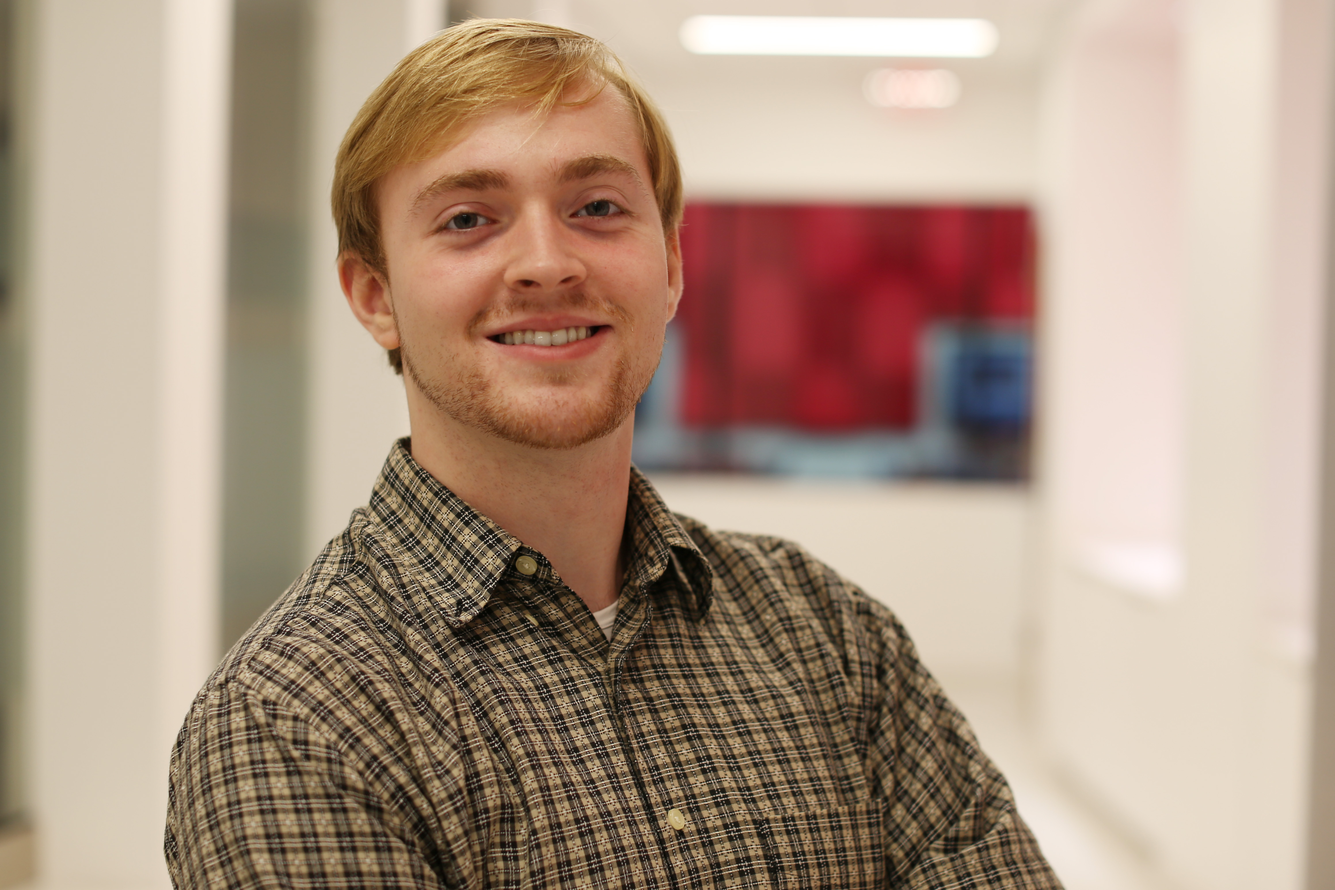
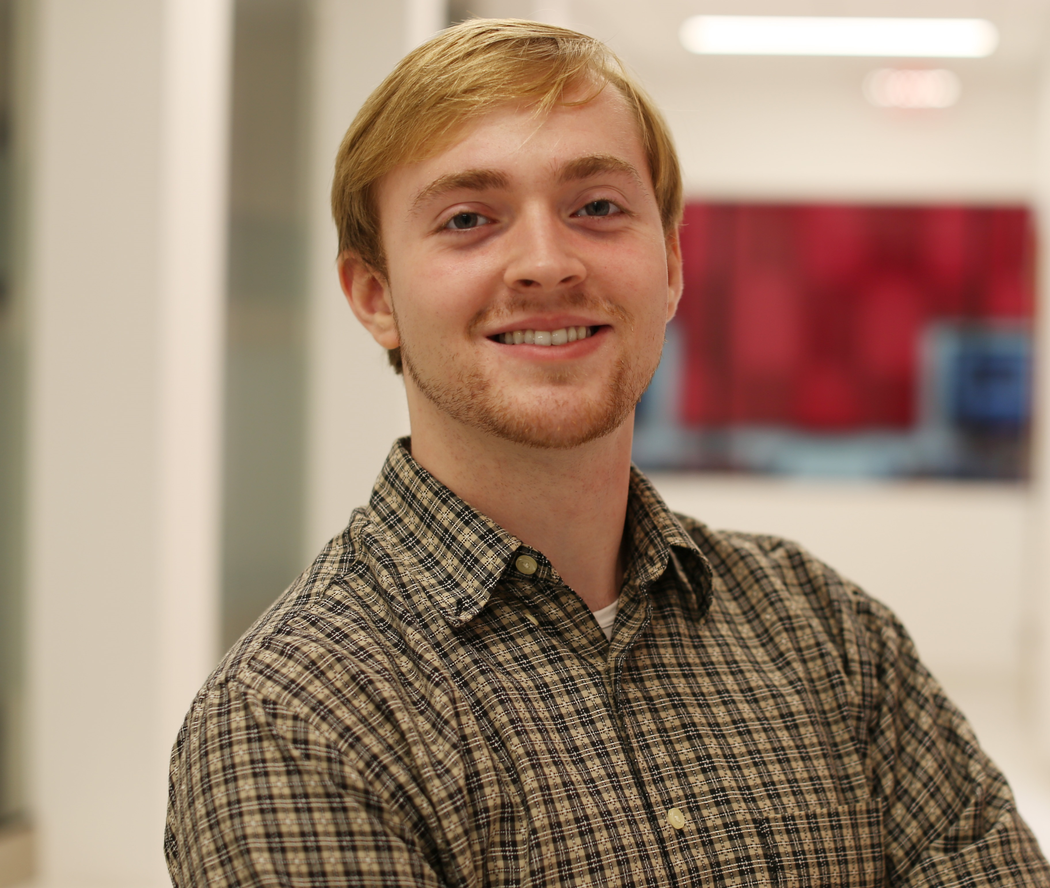
Fixed #72
Fixed prefile Image rotation bug.
Fixed the home page footer.

diff --git a/frontend/templates/base.html b/frontend/templates/base.html
@@ -34,53 +34,84 @@
         {% endblock %}
     </main>
 
-    <footer class="page-footer font-small blue pt-4">
+    <footer class="mt-5 page-footer font-small indigo bg-light ">
 
       <!-- Footer Links -->
-      <div class="container-fluid text-center text-md-left">
-        <!-- Grid row -->
-        <div class="row">
-          <!-- Grid column -->
-          <div class="col-md-6 mt-md-0 mt-3">
-            <!-- Content -->
-            <h5 class="text-uppercase">University at Buffalo Esports</h5>
-            <div class="row">
-              <img src="images/Email.png" width="30" height="30">
-              <p>ubuffalo.esports@gmail.com</p>
-            </div>
-          </div>
-          <!-- Grid column -->
-          <hr class="clearfix w-100 d-md-none pb-3">
-          <!-- Grid column -->
-          <div class="col-md-3 mb-md-0 mb-3">
-            <!-- Links -->
-            <ul class="list-unstyled">
-              <li>
-                <a href="blog" style="color:black">Blog</a>
-              </li>
-              <li>
-                <a href="clubs" style="color:black">Clubs</a>
-              </li>
-              <li>
-                <a href="events" style="color:black">Events</a>
-              </li>
-              <li>
-                <a href="teams" style="color:black">Teams</a>
-              </li>
-            </ul>
+      <div class="container">
     
+        <!-- Grid row-->
+        <div class="row text-center d-flex justify-content-center pt-5 mb-3">
+    
+          <!-- Grid column -->
+          <div class="col-md-2 ">
+            <h6 class="text-uppercase font-weight-bold">
+              <a href="#!">Blog</a>
+            </h6>
           </div>
           <!-- Grid column -->
+    
+          <!-- Grid column -->
+          <div class="col-md-2 ">
+            <h6 class="text-uppercase font-weight-bold">
+              <a href="#!">Clubs</a>
+            </h6>
+          </div>
+          <!-- Grid column -->
+    
+          <!-- Grid column -->
+          <div class="col-md-2 ">
+            <h6 class="text-uppercase font-weight-bold">
+              <a href="#!">Events</a>
+            </h6>
+          </div>
+          <!-- Grid column -->
+    
+          <!-- Grid column -->
+          <div class="col-md-2 ">
+            <h6 class="text-uppercase font-weight-bold">
+              <a href="#!">Teams</a>
+            </h6>
+          </div>
+          <!-- Grid column -->
+
         </div>
-        <!-- Grid row -->
+        <!-- Grid row-->
+        <hr class="rgba-white-light" style="margin: 0 15%;">
+    
+        <!-- Grid row-->
+        <div class="row d-flex text-center justify-content-center mb-md-0 mb-1">
+    
+          <!-- Grid column -->
+          <div class="col-md-8 col-12 mt-5">
+            <h5 class="text-uppercase">University at Buffalo Esports</h5>
+            <a href="mailto:ubuffalo.esports@gmail.com">ubuffalo.esports@gmail.com</a>
+          </div>
+          <!-- Grid column -->
+    
+        </div>
+        <!-- Grid row-->
+        <hr class="clearfix d-md-none rgba-white-light" style="margin: 10% 15% 5%;">
+    
+        <!-- Grid row-->
+        <div class="row pb-3">
+    
+          <!-- Grid column -->
+          <div class="col-md-12">
+          </div>
+          <!-- Grid column -->
+    
+        </div>
+        <!-- Grid row-->
+    
       </div>
       <!-- Footer Links -->
+    
       <!-- Copyright -->
       <div class="footer-copyright text-center py-3">© 2020 Copyright:
-        <a href="#" style="color:black"> University at Buffalo Esports</a>
+        <a > University at Buffalo Esports</a>
       </div>
       <!-- Copyright -->
+    
     </footer>
-    <!-- Footer -->
 </body>
 </html>

diff --git a/frontend/templates/community-director.html b/frontend/templates/community-director.html
@@ -5,7 +5,7 @@
   <div>
       <section class="jumbotron text-center">
         <div class="container">
-          <img class="bd-placeholder-img rounded-circle" width="140" height="140" src="images/communityDirector2.jpg" style="transform:rotate(270deg)">
+          <img class="bd-placeholder-img rounded-circle" width="140" height="140" src="images/communityDirector2.jpg" >
           <h1>Jackson Kamp</h1>
           <p class="lead text-muted">Community Director</p>
           <p>The Community Director is in charge of recruiting new members, formation and disbanding of clubs, and enforcing policies in the community. Jackson works to make the organization a place for anyone to join, even if they're not involved in Esports. The community director also helps orchestrate community events and meet ups.</p>

diff --git a/frontend/templates/index.html b/frontend/templates/index.html
@@ -17,7 +17,7 @@
 
       <div class="col-lg-2">
         <img class="bd-placeholder-img rounded-circle" width="140" height="140" src="images/communityDirector2.jpg"  
-        focusable="false" style="transform:rotate(270deg)">
+        focusable="false" >
         <h5>Jackson</h5>
         <h5>Kamp</h5>
         <p>Community Director</p>
@@ -44,7 +44,7 @@
 
       <div class="col-lg-2">
         <img class="bd-placeholder-img rounded-circle" width="140" height="140" src="images/directorOfFinance.jpg"  
-        focusable="false" style="transform:rotate(270deg)">
+        focusable="false" >
         <h5>Jake</h5>
         <h5>Nowak</h5>
         <p>Director of Finance</p>

diff --git a/frontend/templates/director-of-finance.html b/frontend/templates/director-of-finance.html
@@ -5,7 +5,7 @@
   <div>
       <section class="jumbotron text-center">
         <div class="container">
-          <img class="bd-placeholder-img rounded-circle" width="140" height="140" src="images/directorOfFinance2.jpg" style="transform:rotate(270deg)">
+          <img class="bd-placeholder-img rounded-circle" width="140" height="140" src="images/directorOfFinance.jpg" >
           <h1>Jake Nowak</h1>
           <p class="lead text-muted">Director of Finance</p>
           <p>The Director of finance is in charge of everything money. Jake helps contact companies for sponsorships, as well as making sure we have enough equipment for our events.</p>
